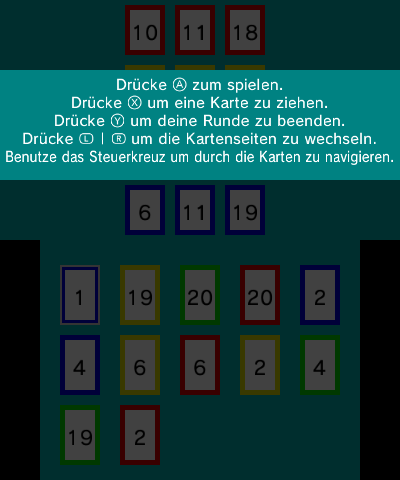
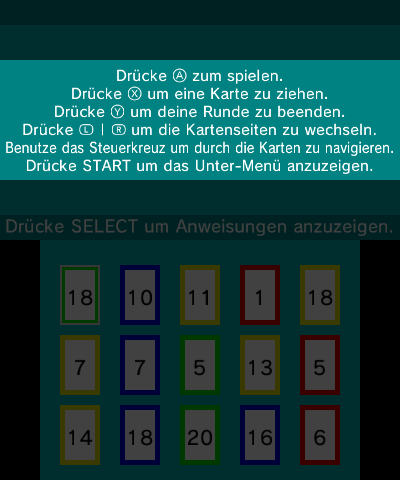
Siehe Beschreibung für mehr.
- [CORE]: Behebe einen Fehler bei den Tischkarten.

- [APP]: Ein Sprach-Auswahls Overlay wurde hinzugefügt. Ebenfalls wurden Platzhalter Schaltflächen im Unter-Menü hinzugefügt.

- [README]: Liste TODO's auf, welche noch zu tun sind.

diff --git a/3ds/source/screens/gameScreen.cpp b/3ds/source/screens/gameScreen.cpp
@@ -156,6 +156,7 @@ void GameScreen::Draw(void) const {
 		GFX::DrawBaseTop();
 		Gui::Draw_Rect(0, 0, 400, 25, C2D_Color32(0, 130, 130, 255));
 		Gui::Draw_Rect(0, 215, 400, 25, C2D_Color32(0, 130, 130, 255));
+		Gui::DrawStringCentered(0, 215, 0.7f, C2D_Color32(255, 255, 255, 255), Lang::get("SELECT_INSTRUCTIONS"), 390);
 		this->DrawTable();
 		GFX::DrawBaseBottom();
 		this->DrawPlayerCards();
@@ -168,16 +169,18 @@ void GameScreen::Draw(void) const {
 		Gui::DrawStringCentered(0, 215, 0.7f, C2D_Color32(255, 255, 255, 255), Lang::get("B_BACK"), 390);
 		GFX::DrawBaseBottom();
 
-		for (int i = 0; i < 5; i++) {
+		for (int i = 0; i < 10; i++) {
 			if (this->subSel == i) Gui::drawAnimatedSelector(this->subBtn[i].x, this->subBtn[i].y, 140, 40, .030f, C2D_Color32(0, 222, 222, 255), C2D_Color32(0, 130, 130, 255));
 			else Gui::Draw_Rect(this->subBtn[i].x, this->subBtn[i].y, this->subBtn[i].w, this->subBtn[i].h, C2D_Color32(0, 130, 130, 255));
 		}
 
-		Gui::DrawStringCentered(0, this->subBtn[0].y + 10, 0.6f, C2D_Color32(255, 255, 255, 255), Lang::get("LOAD_GAME"));
-		Gui::DrawStringCentered(0, this->subBtn[1].y + 10, 0.6f, C2D_Color32(255, 255, 255, 255), Lang::get("SAVE_GAME"));
-		Gui::DrawStringCentered(0, this->subBtn[2].y + 10, 0.6f, C2D_Color32(255, 255, 255, 255), Lang::get("EXIT_GAME"));
-		Gui::DrawStringCentered(0, this->subBtn[3].y + 10, 0.6f, C2D_Color32(255, 255, 255, 255), Lang::get("SHOW_RULES"));
-		Gui::DrawStringCentered(0, this->subBtn[4].y + 10, 0.6f, C2D_Color32(255, 255, 255, 255), Lang::get("CREDITS"));
+		Gui::DrawStringCentered(-80, this->subBtn[0].y + 10, 0.6f, C2D_Color32(255, 255, 255, 255), Lang::get("LOAD_GAME"));
+		Gui::DrawStringCentered(-80, this->subBtn[1].y + 10, 0.6f, C2D_Color32(255, 255, 255, 255), Lang::get("SAVE_GAME"));
+		Gui::DrawStringCentered(-80, this->subBtn[2].y + 10, 0.6f, C2D_Color32(255, 255, 255, 255), Lang::get("EXIT_GAME"));
+		Gui::DrawStringCentered(-80, this->subBtn[3].y + 10, 0.6f, C2D_Color32(255, 255, 255, 255), Lang::get("SHOW_RULES"));
+		Gui::DrawStringCentered(-80, this->subBtn[4].y + 10, 0.6f, C2D_Color32(255, 255, 255, 255), Lang::get("SHOW_CREDITS"));
+
+		Gui::DrawStringCentered(80, this->subBtn[5].y + 10, 0.6f, C2D_Color32(255, 255, 255, 255), Lang::get("CHANGE_LANGUAGE"));
 	}
 }
 
@@ -222,10 +225,20 @@ void GameScreen::Logic(u32 hDown, u32 hHeld, touchPosition touch) {
 
 		if (hDown & KEY_DOWN) {
 			if (this->subSel < 4) this->subSel++;
+			else if (this->subSel > 4 && this->subSel < 9) this->subSel++;
 		}
 
 		if (hDown & KEY_UP) {
-			if (this->subSel > 0) this->subSel--;
+			if (this->subSel > 5) this->subSel--;
+			else if (this->subSel < 5 && this->subSel > 0) this->subSel--;
+		}
+
+		if (hDown & KEY_RIGHT) {
+			if (this->subSel < 5) this->subSel += 5;
+		}
+
+		if (hDown & KEY_LEFT) {
+			if (this->subSel > 4) this->subSel -= 5;
 		}
 
 		if (hDown & KEY_A) {
@@ -272,6 +285,10 @@ void GameScreen::Logic(u32 hDown, u32 hHeld, touchPosition touch) {
 				case 4:
 					Overlays::CreditsOverlay();
 					break;
+
+				case 5:
+					Overlays::LanguageOverlay();
+					break;
 			}
 		}
 
@@ -311,8 +328,11 @@ void GameScreen::Logic(u32 hDown, u32 hHeld, touchPosition touch) {
 			} else if (touching(touch, this->subBtn[3])) {
 				Overlays::RulesOverlay();
 
-			} else if (touching(touch, this->subBtn[3])) {
+			} else if (touching(touch, this->subBtn[4])) {
 				Overlays::CreditsOverlay();
+
+			} else if (touching(touch, this->subBtn[5])) {
+				Overlays::LanguageOverlay();
 			}
 		}
 

diff --git a/3ds/source/overlays/langOverlay.cpp b/3ds/source/overlays/langOverlay.cpp
@@ -1,0 +1,98 @@
+/*
+	Diese Datei ist Teil von 3DElf.
+	Copyright (C) 2020 bei SuperSaiyajinStackZ.
+
+	This program is free software: you can redistribute it and/or modify
+	it under the terms of the GNU General Public License as published by
+	the Free Software Foundation, either version 3 of the License, or
+	(at your option) any later version.
+
+	This program is distributed in the hope that it will be useful,
+	but WITHOUT ANY WARRANTY; without even the implied warranty of
+	MERCHANTABILITY or FITNESS FOR A PARTICULAR PURPOSE.  See the
+	GNU General Public License for more details.
+
+	You should have received a copy of the GNU General Public License
+	along with this program.  If not, see <http://www.gnu.org/licenses/>.
+
+	Additional Terms 7.b and 7.c of GPLv3 apply to this file:
+		* Requiring preservation of specified reasonable legal notices or
+		  author attributions in that material or in the Appropriate Legal
+		  Notices displayed by works containing it.
+		* Prohibiting misrepresentation of the origin of that material,
+		  or requiring that modified versions of such material be marked in
+		  reasonable ways as different from the original version.
+*/
+
+#include "common.hpp"
+
+extern bool touching(touchPosition touch, Structs::ButtonPos button);
+const std::vector<Structs::ButtonPos> langBlocks = {
+	{37, 32, 20, 20},
+	{37, 72, 20, 20},
+	{37, 112, 20, 20},
+	{37, 152, 20, 20},
+	{37, 188, 20, 20},
+	{177, 32, 20, 20},
+	{177, 72, 20, 20},
+	{177, 112, 20, 20},
+	{177, 152, 20, 20},
+	{177, 188, 20, 20}
+};
+
+/*
+	Zeichne das Sprachen-Auswahl Overlay.
+
+	const uint8_t &sltLang: Die aktuelle ausgewählte Sprache.
+*/
+static void Draw(const uint8_t &sltLang) {
+	Gui::clearTextBufs();
+	C3D_FrameBegin(C3D_FRAME_SYNCDRAW);
+	C2D_TargetClear(Top, C2D_Color32(0, 0, 0, 0));
+	C2D_TargetClear(Bottom, C2D_Color32(0, 0, 0, 0));
+
+	GFX::DrawBaseTop();
+	Gui::Draw_Rect(0, 0, 400, 25, C2D_Color32(0, 130, 130, 255));
+	Gui::DrawStringCentered(0, 1, 0.7f, C2D_Color32(255, 255, 255, 255), Lang::get("SELECT_LANG"));
+
+	GFX::DrawBaseBottom();
+
+	for (uint8_t language = 0; language < 2; language++) {
+		if (sltLang == language) Gui::drawAnimatedSelector(langBlocks[language].x, langBlocks[language].y, langBlocks[language].w, langBlocks[language].h, .010f, C2D_Color32(0, 222, 222, 255), C2D_Color32(0, 130, 130, 255));
+		else Gui::Draw_Rect(langBlocks[language].x, langBlocks[language].y, langBlocks[language].w, langBlocks[language].h, C2D_Color32(0, 130, 130, 255));
+	}
+
+	Gui::DrawString(langBlocks[0].x + 25, langBlocks[0].y, 0.7f, C2D_Color32(255, 255, 255, 255), "Deutsch", 320);
+	Gui::DrawString(langBlocks[1].x + 25, langBlocks[1].y, 0.7f, C2D_Color32(255, 255, 255, 255), "English", 320);
+
+	C3D_FrameEnd(0);
+}
+
+/*
+	Zeige das Sprach-Auswahl Overlay.
+*/
+void Overlays::LanguageOverlay() {
+	uint8_t selectedLang = 0;
+	bool doOut = false;
+
+	while(!doOut) {
+		Draw(selectedLang);
+
+		hidScanInput();
+		touchPosition touch;
+		hidTouchRead(&touch);
+
+		if (hidKeysDown() & KEY_DOWN) {
+			if (selectedLang < 1) selectedLang++;
+		}
+
+		if (hidKeysDown() & KEY_UP) {
+			if (selectedLang > 0) selectedLang--;
+		}
+
+		if (hidKeysDown() & KEY_A) {
+			Lang::load(selectedLang);
+			doOut = true;
+		}
+	}
+}

diff --git a/3ds/include/screens/gameScreen.hpp b/3ds/include/screens/gameScreen.hpp
@@ -77,11 +77,17 @@ private:
 	};
 
 	const std::vector<Structs::ButtonPos> subBtn = {
-		{ 90, 10, 140, 40 },
-		{ 90, 55, 140, 40 },
-		{ 90, 100, 140, 40 },
-		{ 90, 145, 140, 40 },
-		{ 90, 190, 140, 40 }
+		{ 10, 10, 140, 40 },
+		{ 10, 55, 140, 40 },
+		{ 10, 100, 140, 40 },
+		{ 10, 145, 140, 40 },
+		{ 10, 190, 140, 40 },
+
+		{ 170, 10, 140, 40 },
+		{ 170, 55, 140, 40 },
+		{ 170, 100, 140, 40 },
+		{ 170, 145, 140, 40 },
+		{ 170, 190, 140, 40 }
 	};
 
 };

diff --git a/3ds/source/ui/msg.cpp b/3ds/source/ui/msg.cpp
@@ -164,7 +164,7 @@ void Msg::HelperBox(std::string Msg) {
 	Gui::ScreenDraw(Top);
 	Gui::Draw_Rect(0, 0, 400, 240, C2D_Color32(0, 0, 0, 190));
 
-	Gui::Draw_Rect(0, 70, 400, 110, C2D_Color32(0, 130, 130, 255));
+	Gui::Draw_Rect(0, 60, 400, 120, C2D_Color32(0, 130, 130, 255));
 	Gui::DrawStringCentered(0, (240 - Gui::GetStringHeight(0.6f, Msg)) / 2, 0.6f, C2D_Color32(255, 255, 255, 255), Msg, 390, 70);
 
 	Gui::ScreenDraw(Bottom);

diff --git a/common/source/core/table.cpp b/common/source/core/table.cpp
@@ -108,8 +108,8 @@ void Table::SetCard(CardColor CLR, bool upper, CardType CT) {
 			this->TableCards[(uint8_t)CLR - 1].second = CT;
 
 		} else {
-			upper ? this->TableCards[(uint8_t)CLR - 1].second :
-					this->TableCards[(uint8_t)CLR - 1].first = CT;
+			if (upper) this->TableCards[(uint8_t)CLR - 1].second = CT;
+			else this->TableCards[(uint8_t)CLR - 1].first = CT;
 		}
 	}
 }

diff --git a/3ds/source/main.cpp b/3ds/source/main.cpp
@@ -52,7 +52,7 @@ static void init() {
 	gfxInitDefault();
 	Gui::init();
 
-	Lang::load(0); // Lade die Übersetzungen.
+	Lang::load(1); // Lade die Übersetzungen.
 
 	mkdir("sdmc:/3ds", 0x777);
 	mkdir("sdmc:/3ds/3DElf", 0x777);

diff --git a/3ds/include/overlays/overlay.hpp b/3ds/include/overlays/overlay.hpp
@@ -33,6 +33,7 @@ namespace Overlays {
 	void SplashOverlay();
 	void RulesOverlay();
 	void CreditsOverlay();
+	void LanguageOverlay();
 };
 
 #endif

diff --git a/README.md b/README.md
@@ -23,6 +23,18 @@ Hier findest du ein paar Screenshots zum aktuellen Fortschritt.
 ### Splash Overlay
 ![](https://github.com/SuperSaiyajinStackZ/3DElf/blob/main/screenshots/dev_by.png)
 
+### Sprachauswahl Overlay
+![](https://github.com/SuperSaiyajinStackZ/3DElf/blob/main/screenshots/sprachauswahl.png)
+
+
+## Dinge, welche noch geplant sind bis zum ersten offiziellen Release:
+- [ ] Füge eine Konfiguration hinzu für die Sprache etc, damit sie gespeichert werden können.
+- [ ] Füge eine option hinzu, um den Computer zu de/aktivieren für das Unter-Menü.
+- [ ] Füge eine option hinzu, um die Spieleranzahl zu verändern im Unter-Menü.
+- [ ] Zeige die Anzahl der Karten von allen Spielern irgendwo im Spiel-Screen an.
+- [ ] Füge eine option hinzu, um ein Spiel von vorne zu beginnen im Unter-Menü.
+- [ ] Eventuelle Verbesserungen des Spiel-Cores und der Anwendung.
+
 ## Credits
 ### Haupt-Entwicklers
 - [SuperSaiyajinStackZ](https://github.com/SuperSaiyajinStackZ): Haupt-Entwickler von 3DElf.
